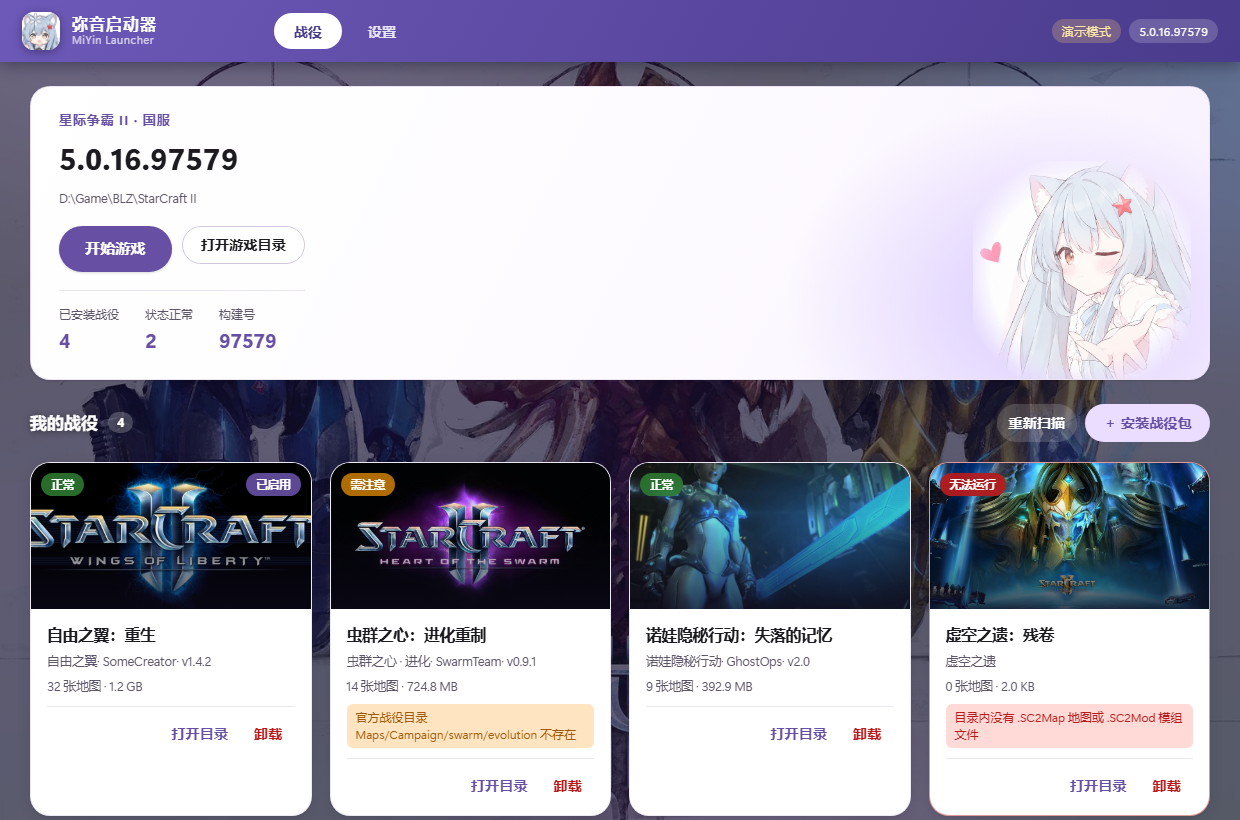
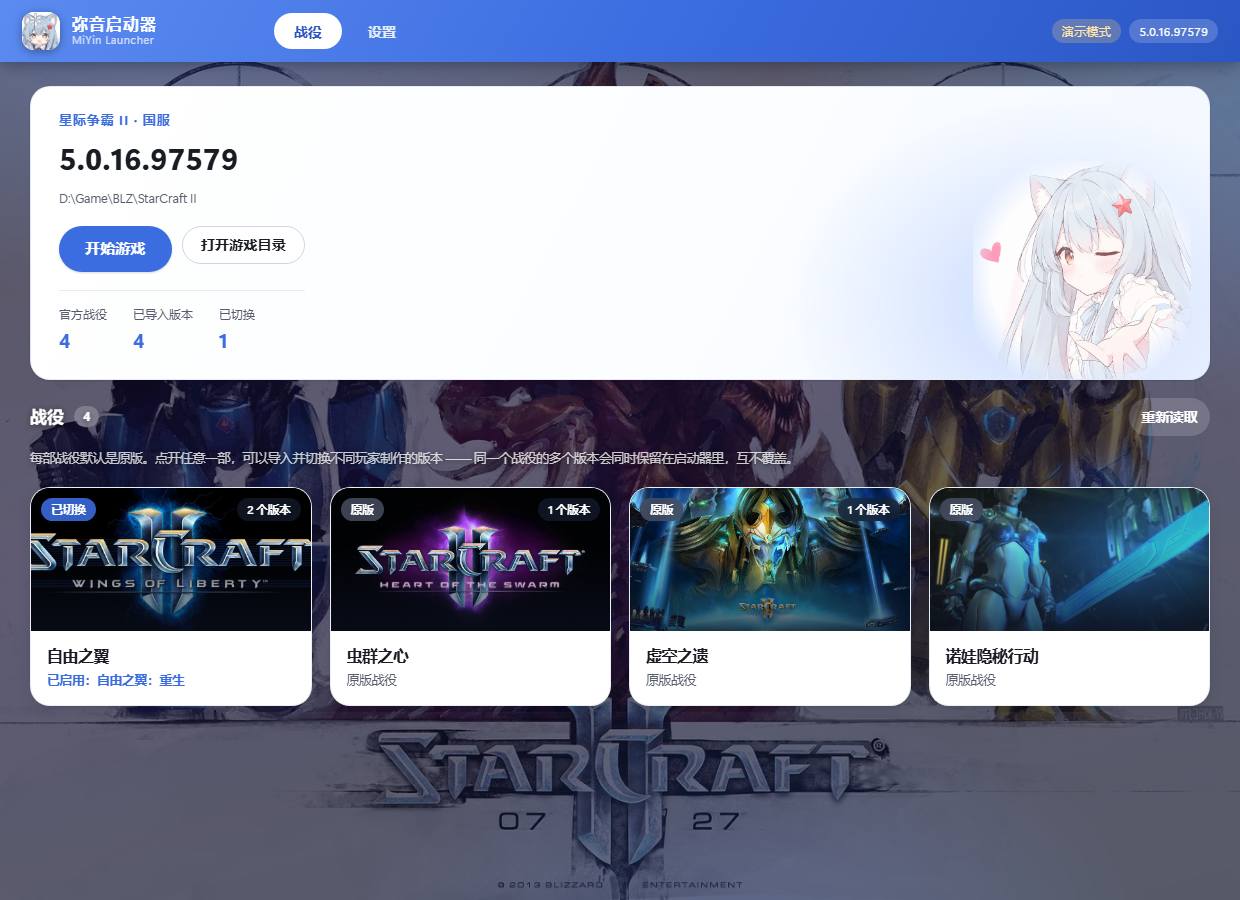
docs: 记录战役库架构与新的界面截图
AGENTS.md 增补 §14 战役库：目录布局、四大战役归并规则、交互约定与切换的安全底线。

diff --git a/AGENTS.md b/AGENTS.md
@@ -82,12 +82,16 @@ HSCL/                          # 仓库根（目录名待后续统一为 miyin-l
 │           ├── error.rs       # 统一错误类型（错误信息直接面向用户，用中文）
 │           ├── safety.rs      # 路径白名单与规范化校验（所有写操作的闸门）
 │           ├── sc2/           # 安装发现（注册表 / 手动）+ .build.info 解析
-│           └── campaign/      # 战役领域
-│               ├── metadata.rs    # CCM metadata.txt / 标准 metadata.json 解析
-│               ├── sanitize.rs    # 目录名安全化（防目录穿越）
-│               ├── package.rs     # zip 预检：格式识别、zip-slip、体积上限
-│               ├── installer.rs   # 事务化安装 / 卸载（带回滚）
-│               └── scanner.rs     # 已安装战役扫描与核对
+│           ├── campaign/      # 战役包领域（与游戏目录耦合的那部分）
+│           │   ├── metadata.rs    # CCM metadata.txt / 标准 metadata.json 解析
+│           │   ├── sanitize.rs    # 目录名安全化（防目录穿越）
+│           │   ├── package.rs     # zip 预检：格式识别、zip-slip、体积上限、解压
+│           │   ├── installer.rs   # 直接装进游戏目录（旧路径，保留）
+│           │   └── scanner.rs     # 目录扫描与核对
+│           └── library/       # **战役库**：多版本共存与切换（见 §14）
+│               ├── mod.rs          # 索引模型、槽位、封面与路径规则
+│               ├── store.rs        # 导入 / 删除版本
+│               └── activation.rs   # 启用 / 停用（按清单精确回滚）
 ├── src-tauri/                 # Tauri 2 桌面壳：只做状态持有与命令转发
 │   ├── src/lib.rs             # 全部 #[tauri::command] 都在这里
 │   ├── tauri.conf.json
@@ -96,9 +100,9 @@ HSCL/                          # 仓库根（目录名待后续统一为 miyin-l
 │   ├── public/                # 美术资产（见 §13，含 NOTICE.md）
 │   └── src/
 │       ├── api/               # 类型定义 / 后端桥接（含浏览器演示模式）/ 美术映射
-│       ├── components/        # CampaignCard、InstallDialog
+│       ├── components/        # SlotCard（战役卡片）、VariantCard（版本卡片）
 │       ├── composables/       # useLauncher：全局状态与动作
-│       ├── views/             # CampaignsView、SettingsView
+│       ├── views/             # CampaignsView（战役列表）、SlotMenuView（战役菜单）、SettingsView
 │       └── styles/            # tokens.css（设计令牌）、base.css
 ├── scripts/                   # prepare-assets.py / prepare-icons.py
 ├── docs/                      # 设计文档、格式说明
@@ -348,15 +352,18 @@ StarCraft II/
 | 代理 | 系统代理 `http://127.0.0.1:7897`，已配好 Git 全局代理（见 §9） |
 | 脚手架 | Rust workspace（`crates/miyin-core`）+ Tauri 2 桌面壳 + Vue 3 前端（见 §4） |
 | 功能范围 | 首个版本聚焦**战役管理与安装**（扫描 / 预检 / 安装 / 卸载），不含下载站与账号功能 |
-| 美术风格 | 只参考 **HMCL 的视觉语言**（Material 3 + 紫色主色 + 大圆角卡片），**不参考其布局**；看板娘为弥音立绘（见 §13） |
+| 美术风格 | 只参考 **HMCL 的视觉语言**（Material 3 + **蓝色主色** + 大圆角卡片），**不参考其布局**；看板娘为弥音立绘（见 §13） |
+| 战役数据 | **存放在软件同级的 data 目录**（绿色版），支持同一战役多版本共存与自由切换（见 §14） |
+| 主菜单范围 | 只列**四大战役**（自由之翼 / 虫群之心 / 虚空之遗 / 诺娃），进化与序章归并到父战役 |
 
 ### 12.2 待确认（TODO）
 
 - [ ] **许可证**：HMCL 为 GPL-3.0、参考项目 scnexus 为 BSD-3-Clause；本项目需自行决定（若希望被广泛集成，MIT/Apache-2.0 更宽松）。
 - [ ] **仓库 / 目录正式更名**：`HSCL` → `miyin-launcher`（含 crate 名、仓库名、CI 路径）。
-- [ ] **启用 / 停用战役（激活）**：把地图按清单复制进 `Maps/Campaign`，并支持按清单精确回滚
-      （参考实现在这里会误删官方战役目录，务必按 §10.5 的白名单思路实现）。
-- [ ] **游戏运行时探测**：识别 SC2 进程是否在运行，避免安装时文件被占用。
+- [x] **启用 / 停用战役（激活）**：已实现，按清单精确回滚（见 §14.4）。
+- [ ] **游戏运行时探测**：识别 SC2 进程是否在运行，避免切换时文件被占用。
+- [ ] **从游戏目录反向导入**：把已经装在 `Maps/CustomCampaigns` 里的旧战役收进库
+      （`campaign::scanner` 已经能扫描这类目录，缺的是收编流程）。
 - [ ] CCM 格式规格文档整理（放 `docs/`）。
 - [ ] `README.md` / `LICENSE` / `CONTRIBUTING.md` / Issue 模板 / CI 工作流（公开发布前必备，见 §7.3）。
 
@@ -366,7 +373,7 @@ StarCraft II/
 
 ### 13.1 视觉风格
 
-界面**只参考 HMCL 的视觉语言**（Material 3 色彩体系、紫色主色、大圆角卡片、柔和阴影、模糊背景），
+界面**只参考 HMCL 的视觉语言**（Material 3 色彩体系、**蓝色主色**、大圆角卡片、柔和阴影、模糊背景），
 **不参考它的布局**。设计令牌集中在 `ui/src/styles/tokens.css`：改风格先改令牌，不要在组件里散写颜色。
 
 ### 13.2 素材来源与授权（重要）
@@ -393,3 +400,49 @@ StarCraft II/
 
 立绘自带白底，界面统一用 `mask-image: radial-gradient(...)` 把方形边缘化开；
 **不要**把立绘直接放在深色背景上而不加遮罩。
+
+---
+
+## 14. 战役库（多版本共存）
+
+### 14.1 为什么放在软件目录而不是游戏目录
+
+游戏目录里的 `Maps/CustomCampaigns` 只能放「当前这一份」，装第二个版本就得先删第一个。
+所以库放在**软件可执行文件同级的 `data/` 目录**（绿色版，随软件走，见 `library::default_root`）：
+
+```text
+<启动器目录>/data/
+├── library.json               # 索引：每个槽位下有哪些版本、当前启用哪个
+├── active.json                # 激活清单：我们往游戏目录放了什么、挪走了什么
+├── campaigns/<槽位>/<版本>/    # 各版本的完整内容
+└── backup/<槽位>/              # 被挪走的官方文件，切回原版时原样还原
+```
+
+### 14.2 四大战役与归并
+
+主菜单**只列四大战役**：自由之翼 → 虫群之心 → 虚空之遗 → 诺娃隐秘行动。
+顺序由 `CampaignType::MAIN` 固定，**不要**改成按名字排序（那样虚空之遗会排到诺娃后面）。
+
+「虫群之心 · 进化」与「虚空之遗 · 序章」**不作为独立条目**：
+`CampaignType::parent()` 把它们归并到父战役。包内声明 `campaign=HOTSEVO` 的包
+导入到「虫群之心」槽位，但 `Variant::target_sub` 记为 `swarm/evolution`，
+启用时地图落到正确位置 —— **目标子目录属于版本，而不是槽位**，这是关键设计。
+
+### 14.3 交互约定
+
+- 战役列表是**卡片**；点进某个战役进入它**自己的菜单页**（不是弹窗），里面同样是**卡片**。
+- 每个战役菜单里第一张卡永远是「原版战役」，其后是导入的玩家版本。
+- 包可以自带封面图：在 `metadata.txt` 里写 `cover=xxx.png`（也认 image / icon / banner），
+  或者直接放 `cover` / `preview` / `banner` / `poster` 命名的图片。
+  没有就用该战役的官方美术（`ui/src/api/art.ts` 的 `slotArt()`）。
+
+### 14.4 切换的安全底线
+
+启用 / 停用**只操作清单里记过的文件**，绝不递归删除官方目录：
+
+1. `deactivate` 上一个版本：删掉我们放进去的文件、还原被挪走的官方文件。
+2. 目标位置若已有同名文件（多半是官方的），先挪进 `data/backup/` 并记账。
+3. 复制新版本的文件并逐条记账，最后写 `active.json`。
+
+因此最坏情况是「多留了几个文件」，而不是「官方战役没了」。
+这部分由 `crates/miyin-core/src/library/tests.rs` 的端到端测试覆盖。
